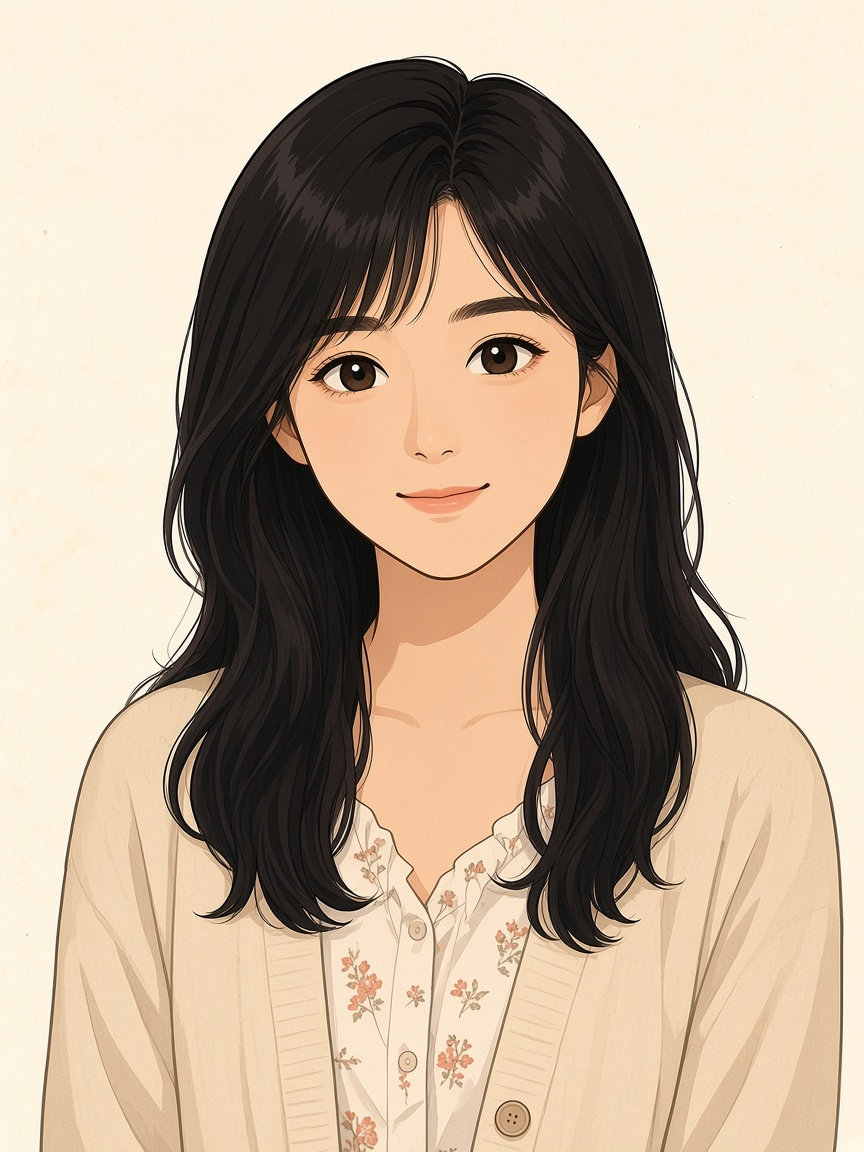
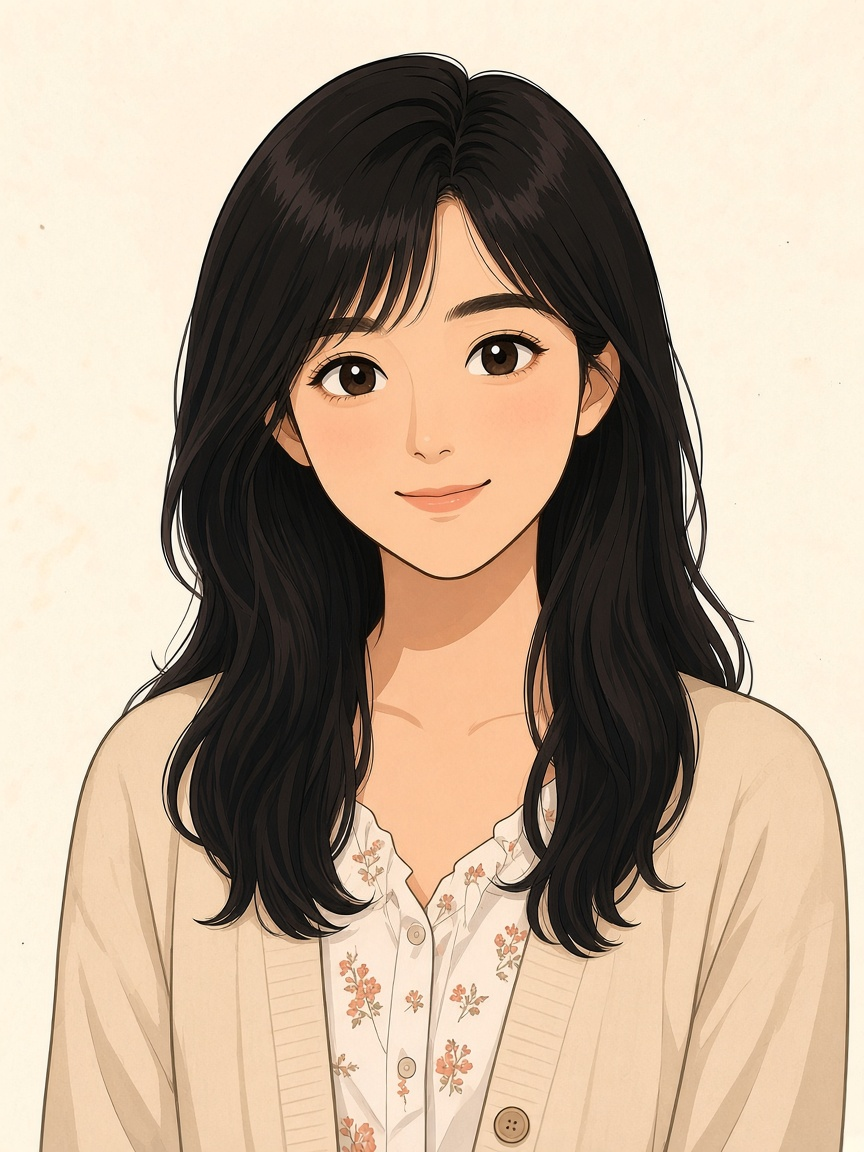
Soft: so energy Soft nit (so_jiyan default+smile)
Soft tip only. Soft≠PASS. No LIVE tip. SAVE/?v= still 19w.

- so_jiyan_bust_default.png and so_jiyan_bust_smile.png only
- frown stays jade-v4 lock f0c0347e
- 89–92 HOLD

diff --git a/assets/story/era_stars/MANIFEST.md b/assets/story/era_stars/MANIFEST.md
@@ -4,7 +4,7 @@
 > **Brief：** `content/ART_BRIEF_MVP_ERA_STARS_v1.md`  
 > **LOOKS：** `content/PLAN_CHAR_LOOKS_REF_v1.md` §C  
 > **Pipeline：** cursor **GenerateImage**（refs `hero_awi.jpg`＋`char_hero_bust_default.png`）→ Pillow cover-crop **864×1152** PNG  
-> **狀態：** **Soft tip 2026-11-05** — **luk leather v5b**＋**liu chow-vibe v10**＋**yip starlet-v3**＋**so jade-v4**＋**ngai kara-v5**（各 bust×3）。5 人 ×3 表情＝15 live bust。ngai kara-v2 已由 kara-v5 取代，唔再係 live。**Soft nits expr** 已換 so smile／luk smile／ngai×3（bak `bak_pre_soft_nits_expr_20261105/` 唔入本 PR）。**silhouettes v2** 5／5 `*_silhouette_far.png` 已入 Soft（bak 唔入本 PR）。挑眉 `raise_brow` 後排、唔動。Soft≠PASS；**唔 tip LIVE**；**1989–1992 HOLD**；`?v=` 仍 `19w`；SAVE `starVolunteer_map_v19w`
+> **狀態：** **Soft tip 2026-11-05** — **luk leather v5b**＋**liu chow-vibe v10**＋**yip starlet-v3**＋**so jade-v4**＋**ngai kara-v5**（各 bust×3）。5 人 ×3 表情＝15 live bust。ngai kara-v2 已由 kara-v5 取代，唔再係 live。**Soft nits expr** 已換 so smile／luk smile／ngai×3（bak `bak_pre_soft_nits_expr_20261105/` 唔入本 PR）。**so energy Soft nit** 已換 default＋smile（frown 未動；bak 唔入本 PR）。**silhouettes v2** 5／5 `*_silhouette_far.png` 已入 Soft（bak 唔入本 PR）。挑眉 `raise_brow` 後排、唔動。Soft≠PASS；**唔 tip LIVE**；**1989–1992 HOLD**；`?v=` 仍 `19w`；SAVE `starVolunteer_map_v19w`
 
 ## Style-lock MD5（installed live）
 
@@ -19,9 +19,9 @@
 | `ngai_wingnaam_bust_default.png` | `1729ee30129632fd13ed3bad8a297537` |
 | `ngai_wingnaam_bust_frown.png` | `8a4ef50ea433990fb77dcba4db6d90d4` |
 | `ngai_wingnaam_bust_smile.png` | `fea5a4769558bed238a71b6e0273b77b` |
-| `so_jiyan_bust_default.png` | `912b8dc594c26038efb5db86e4fbd99e` |
+| `so_jiyan_bust_default.png` | `2cc1a57050e1bf20d847d87938d1c1d0` |
 | `so_jiyan_bust_frown.png` | `f0c0347ebfb54d00993428404ab2e231` |
-| `so_jiyan_bust_smile.png` | `0b8199617ea0366081a34ff3d8f5a64d` |
+| `so_jiyan_bust_smile.png` | `e57ab12a1329850c0b544a92fdd2ea46` |
 | `yip_manji_bust_default.png` | `247b7569c204d9ff3b9e091611fec5e9` |
 | `yip_manji_bust_frown.png` | `9d7e2b8ea12a6cd8bfcf92972cba34d9` |
 | `yip_manji_bust_smile.png` | `d40c3dd713eef51dfee0615b59eebf1f` |
@@ -32,7 +32,7 @@
 |---|---|---|---|---|
 | `luk_baakyin` | 陸柏言 | `*_bust_{default,smile,frown}.png` + `*_silhouette_far.png`（**sil v2**） | 864×1152 | **leather v5b**＋**smile Soft nit 2026-11-05**（露齒酒窩）＋**frown Soft nit 2026-11-05**（深 V 皺眉＋下撇嘴；MD5 `d379b322`）。default `f0bc02d8`／smile `202a6200` 唔動。bak `bak_pre_luk_leather_v5/`＋`bak_pre_soft_nits_expr_20261105/`＋`bak_pre_luk_frown_soft_nit_20261105/` 留盤，唔入本 PR |
 | `yip_manji` | 葉敏芝 | bust×3 + sil **v2** | 864×1152 | **starlet-v3 2026-11-05**：露肩 dusty-rose；邱淑貞／張敏氣質（禁抄臉）；GenerateImage。bak `bak_pre_yip_starlet_v3/` 留盤，唔入本 PR |
-| `so_jiyan` | 蘇芷茵 | bust×3 + `*_silhouette_far.png`（**sil v2 新建**） | 864×1152 | **jade-v4**＋**smile Soft nit 2026-11-05**（暖笑露齒提示）。bak `bak_pre_so_jade_v4/`＋`bak_pre_soft_nits_expr_20261105/` 留盤，唔入本 PR |
+| `so_jiyan` | 蘇芷茵 | bust×3 + `*_silhouette_far.png`（**sil v2 新建**） | 864×1152 | **jade-v4**＋**energy Soft nit 2026-11-05**（default＋smile 更有精神／眼閃；MD5 `2cc1a570`／`e57ab12a`）。frown `f0c0347e` 未動。bak `bak_pre_so_jade_v4/`＋`bak_pre_soft_nits_expr_20261105/`＋`bak_pre_so_energy_soft_nit_20261105/` 留盤，唔入本 PR |
 | `liu_bingxing` | 廖炳星 | bust×3 + sil **v2** | 864×1152 | **chow-vibe v10 2026-11-05**：花恤衫正面；周星馳氣質（禁抄臉）；GenerateImage。bak `bak_pre_liu_chow_v10/` 留盤，唔入本 PR |
 | `ngai_wingnaam` | 魏詠男 | bust×3 + sil **v2** | 864×1152 | **kara-v5**＋**Soft nits expr 2026-11-05×3**（表情差拉開；年齡仍偏嫩）。kara-v2 唔再係 live。bak `bak_pre_ngai_kara_v5/`＋`bak_pre_soft_nits_expr_20261105/` 留盤，唔入本 PR |
 
@@ -52,7 +52,7 @@
 ## Soft nits（唔擋；Soft≠PASS）
 
 1. `luk_baakyin` smile Soft nit **2026-11-05 已換**（露齒＋酒窩；MD5 `202a6200`）；**frown Soft nit 2026-11-05 已換**（深 V 皺眉＋鼻樑壓＋下撇嘴；MD5 `d379b322`；對開 default smirk／smile 露齒）。Soft nits（唔擋）：怒氣線可再強；眉峰 V 可再銳  
-2. `so_jiyan` smile Soft nit **2026-11-05 已換**（暖笑露齒提示；MD5 `0b819961`）；能量仍可再推  
+2. `so_jiyan` **energy Soft nit 2026-11-05 已換** default＋smile（MD5 `2cc1a570`／`e57ab12a`；閉唇淺笑＋眼神／smile 露齒眼閃；frown `f0c0347e` 未動）。Soft nits（唔擋）：default 嘴角仍偏親切微笑（可選再收、專推眼閃）；modern polish 線密度；default NEW RGB vs bak RGBA（尺寸／構圖 OK，記帳 only）  
 3. `ngai_wingnaam` Soft nits expr **2026-11-05 已換×3**（default／smile／frown MD5 `1729ee30`／`fea5a476`／`8a4ef50e`）；**年齡仍偏嫩**（~38 未清）。kara-v2 已由 v5 取代，唔再係 live  
 4. `yip_manji` starlet-v3：咬唇／眨眼能量仍可再推；default↔smile 差可再拉開  
 5. `liu_bingxing` chow-vibe v10：default↔smile 差可再拉開；frown 吃癟可再強  
@@ -67,7 +67,7 @@
 
 ## Gates
 
-Soft≠PASS｜唔 tip LIVE｜唔 wake iOS｜89–92 HOLD｜silhouettes v2 Soft tip（遠觀只限 Soft gate）｜expr nits Soft tip｜raise_brow 後排｜`?v=` 仍 `19w`｜SAVE `starVolunteer_map_v19w`
+Soft≠PASS｜唔 tip LIVE｜唔 wake iOS｜89–92 HOLD｜silhouettes v2 Soft tip（遠觀只限 Soft gate）｜expr nits Soft tip｜so energy Soft nit（default＋smile；frown 未動）｜raise_brow 後排｜`?v=` 仍 `19w`｜SAVE `starVolunteer_map_v19w`
 
 ## Pack
 
@@ -89,6 +89,8 @@ Soft≠PASS｜唔 tip LIVE｜唔 wake iOS｜89–92 HOLD｜silhouettes v2 Soft t
 
 `/workspace/star-volunteer-web-luk-frown-soft-nit.tar.gz`（只換 live `luk_baakyin_bust_frown.png`；bak／`_qc_refs`／QA composite 唔入本 PR）
 
+`/workspace/star-volunteer-web-so-energy-soft-nit.tar.gz`（只換 live `so_jiyan_bust_default.png`＋`so_jiyan_bust_smile.png`；bak／QA composite／QA md 唔入本 PR）
+
 ## Related
 
 - Prior MVP：`/workspace/star-volunteer-web-era-stars-mvp.tar.gz`；ngai fix `/workspace/star-volunteer-web-era-ngai-cork-fix.tar.gz`
@@ -103,3 +105,11 @@ Soft≠PASS｜唔 tip LIVE｜唔 wake iOS｜89–92 HOLD｜silhouettes v2 Soft t
 - Soft nits（唔擋 Soft tip）：怒氣線可再強；眉峰 V 可再銳
 - Soft≠PASS｜唔 tip LIVE｜唔抬 ?v=｜89–92 HOLD
 - Pack：`/workspace/star-volunteer-web-luk-frown-soft-nit.tar.gz`
+
+## so energy Soft nit 2026-11-05 (Asia/Hong_Kong)
+- 只換 live：`so_jiyan_bust_default.png` MD5 `2cc1a57050e1bf20d847d87938d1c1d0`；`so_jiyan_bust_smile.png` MD5 `e57ab12a1329850c0b544a92fdd2ea46`（864×1152 RGB）
+- 唔動：frown `f0c0347ebfb54d00993428404ab2e231`（jade-v4 lock）
+- 對開舊：default `912b8dc594c26038efb5db86e4fbd99e`；smile `0b8199617ea0366081a34ff3d8f5a64d`（Soft tip #24 smile）。bak `bak_pre_so_energy_soft_nit_20261105/` 留盤、唔入本 PR
+- Soft nits（唔擋 Soft tip）：default 嘴角仍偏親切微笑（可選再收）；modern polish 線密度；default NEW RGB vs bak RGBA
+- Soft≠PASS｜唔 tip LIVE｜唔抬 ?v=｜89–92 HOLD
+- Pack：`/workspace/star-volunteer-web-so-energy-soft-nit.tar.gz`

diff --git a/assets/STYLE_CANON.md b/assets/STYLE_CANON.md
@@ -73,3 +73,12 @@
 - Soft nits（唔擋 Soft tip）：怒氣線可再強；眉峰 V 可再銳
 - Soft≠PASS；唔 tip LIVE；`?v=` 仍 `19w`；SAVE `starVolunteer_map_v19w`；89–92 HOLD
 - Pack：`/workspace/star-volunteer-web-luk-frown-soft-nit.tar.gz`
+
+## so energy Soft nit（2026-11-05 Asia/Hong_Kong）
+
+- 只換：`story/era_stars/so_jiyan_bust_default.png` MD5 `2cc1a570`；`so_jiyan_bust_smile.png` MD5 `e57ab12a`。frown `f0c0347e` 唔動（jade-v4 lock）
+- jade-v4 wardrobe／正面／cel-shade lock（奶油開襟＋碎花）。Pipeline：GenerateImage → 864×1152 RGB
+- 對開舊 default `912b8dc5`／smile `0b819961`。bak `era_stars/bak_pre_so_energy_soft_nit_20261105/` 留盤、唔入本 PR
+- Soft nits（唔擋 Soft tip）：default 嘴角仍偏親切微笑（可選再收、專推眼閃）；modern polish 線密度；default NEW RGB vs bak RGBA（記帳 only）
+- Soft≠PASS；唔 tip LIVE；`?v=` 仍 `19w`；SAVE `starVolunteer_map_v19w`；89–92 HOLD
+- Pack：`/workspace/star-volunteer-web-so-energy-soft-nit.tar.gz`
